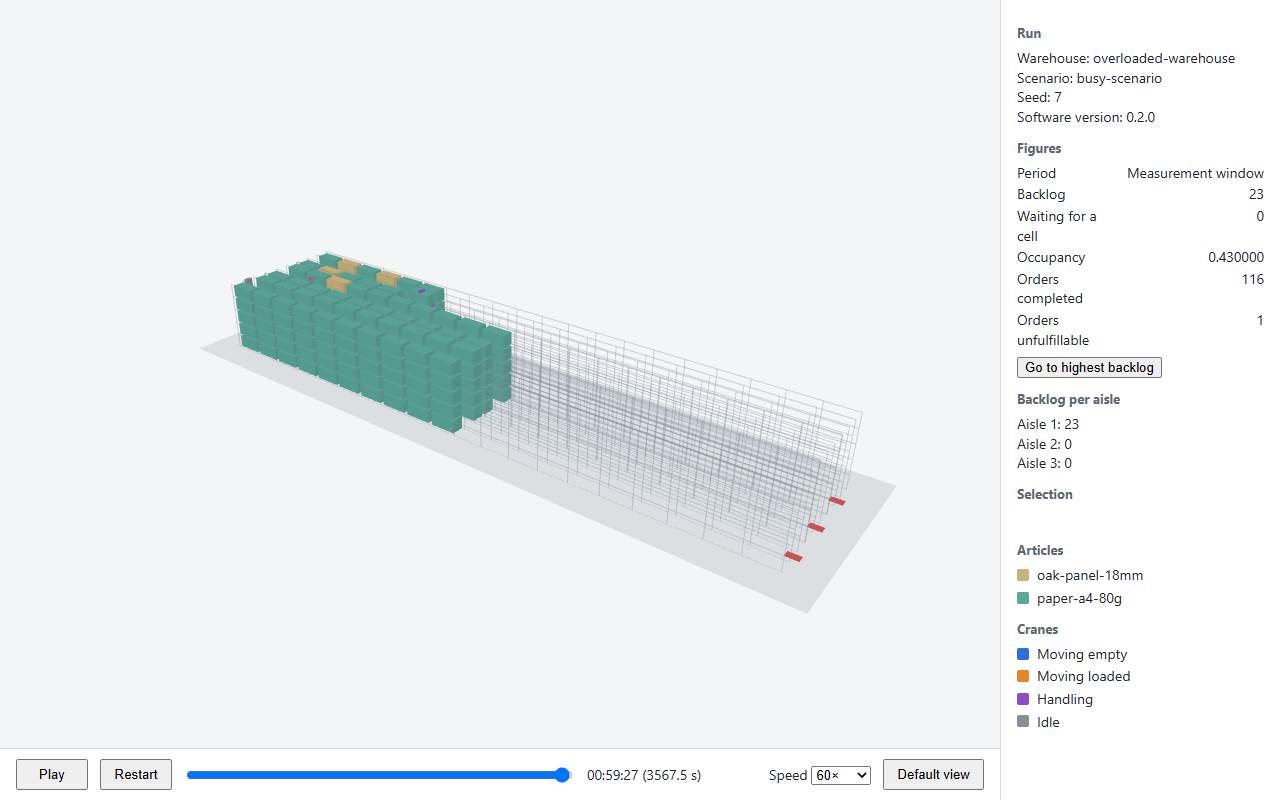
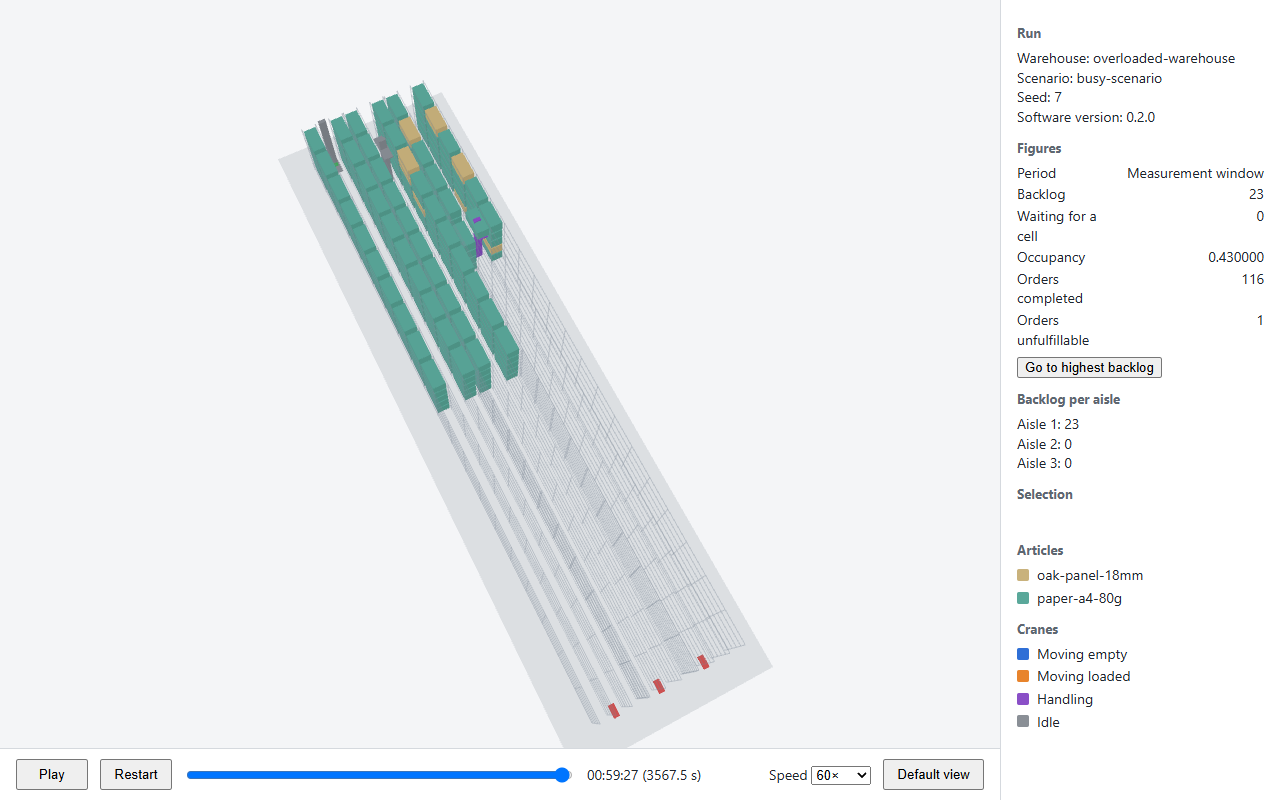
fix: keep cranes visible in the default view
Look steeply along the aisles, so that stored stock does not hide the
cranes. In the overloaded sample, the working crane's smallest visible
area grows from 40 to 147 pixels. Add a test for this, and re-record the
README media in the new view.

The click test now uses an upper cell, because from this view a load
unit above covers cell 1-1-1-1.

Claude-Session: https://claude.ai/code/session_01Ky4XPD1ykP1YnEo62DFhcY

Changed region(s): [[0.1562, 0.0938, 0.6875, 0.9062]]

diff --git a/src/highbay_sim/viewer/scene.js b/src/highbay_sim/viewer/scene.js
@@ -17,7 +17,8 @@ import { OrbitControls } from "./vendor/OrbitControls.js";
 
 const TRANSFER_ROLES = ["inbound", "outbound"];
 const ENDS = ["left", "right"];
-const VIEW_DIRECTION = new THREE.Vector3(0.55, 0.45, 0.7).normalize();
+// Steep and nearly along the aisles, so that stored stock does not hide the cranes.
+const VIEW_DIRECTION = new THREE.Vector3(0.3, 0.9, 0.15).normalize();
 const FIELD_OF_VIEW_DEGREES = 45;
 
 const locationKey = ([aisle, rack, bay, level]) => `${aisle}-${rack}-${bay}-${level}`;

diff --git a/tests/viewer/test_bottlenecks_ui.py b/tests/viewer/test_bottlenecks_ui.py
@@ -163,3 +163,44 @@ def test_unfulfillable_count_is_shown_at_its_time(
     assert figure(overloaded, "unfulfillable") == str(
         data["reported"]["order_outcomes"]["unfulfillable"]
     )
+
+
+def working_crane_pixels(page: Page) -> int:
+    """Count the drawn pixels in the hues of a working crane, which nothing else uses."""
+    return page.evaluate(
+        """() => {
+            const canvas = document.querySelector('#view canvas');
+            const copy = document.createElement('canvas');
+            copy.width = canvas.width;
+            copy.height = canvas.height;
+            window.highbayViewer.renderNow();
+            const context = copy.getContext('2d');
+            context.drawImage(canvas, 0, 0);
+            const { data } = context.getImageData(0, 0, copy.width, copy.height);
+            let count = 0;
+            for (let i = 0; i < data.length; i += 4) {
+                const [r, g, b] = [data[i], data[i + 1], data[i + 2]];
+                const max = Math.max(r, g, b);
+                const range = max - Math.min(r, g, b);
+                if (range === 0 || range / max <= 0.5 || max <= 76) continue;
+                let sector = (r - g) / range + 4;
+                if (max === r) sector = ((g - b) / range + 6) % 6;
+                else if (max === g) sector = (b - r) / range + 2;
+                const hue = sector * 60;
+                if ((hue >= 18 && hue <= 36) || (hue >= 205 && hue <= 285)) count += 1;
+            }
+            return count;
+        }"""
+    )
+
+
+def test_default_view_shows_a_working_crane_among_stored_stock(
+    page: Page, serve: Callable[[Path], str], overloaded_output: Path
+) -> None:
+    open_viewer(page, serve(overloaded_output / "replay.json"))
+    counts = []
+    for time_s in range(2490, 3567, 108):
+        move_to(page, time_s)
+        assert hook(page, "crane(1)")["activity"] != "idle"
+        counts.append(working_crane_pixels(page))
+    assert min(counts) >= 90, counts

diff --git a/tests/viewer/test_inspection_ui.py b/tests/viewer/test_inspection_ui.py
@@ -157,13 +157,13 @@ def test_moving_empty_to_a_transfer_point_names_it(
 
 
 def test_clicking_an_occupied_cell_selects_its_load_unit_and_shows_the_cell(v1: Page) -> None:
-    click_at(v1, hook(v1, "cellScreenPosition([1, 1, 1, 1])"))
+    click_at(v1, hook(v1, "cellScreenPosition([1, 1, 2, 2])"))
     selection = hook(v1, "selection")
     assert selection["kind"] == "load"
     text = details(v1)
     assert "B" in text
     assert "initial stock" in text
-    assert "1-1-1-1" in text
+    assert "1-1-2-2" in text
     assert "occupied" in text
 
 

diff --git a/specs/002-3d-run-replay/contracts/viewer.md b/specs/002-3d-run-replay/contracts/viewer.md
@@ -29,7 +29,7 @@ Logic modules do not use the document or three.js, so they can be tested directl
 | Restart | Goes to time 0 and pauses |
 | Time slider | Moves to the chosen time, covering the whole run |
 | Speed | 1×, 10×, 60×, 600×, or 3,600× |
-| Default view | Returns the camera to show the whole warehouse |
+| Default view | Returns the camera to show the whole warehouse, looking steeply along the aisles so that stored stock does not hide the cranes |
 | Go to highest backlog | Moves to `reported.first_backlog_peak_s` and pauses |
 | Drag, right-drag, and scroll in the view | Rotate, move, and zoom |
 | Click in the view | A crane selects the crane, and its details offer any carried load unit for selection. Otherwise the first load unit along the ray is selected, through empty cells, with its cell's details also shown. With no load unit along the ray, the nearest cell is selected. Anywhere else clears the selection. |

diff --git a/README.md b/README.md
@@ -38,7 +38,7 @@ All values in `samples/` are illustrative and are not real equipment data. Repla
 
 ![Cranes working through a growing backlog in aisle 1, replayed at 60x speed](docs/media/replay.gif)
 
-The recording shows `samples/replay/overloaded-warehouse.yaml` from a camera turned to look into the aisles. All numbers in this sample are placeholders. See also the [default view](docs/media/default-view.png) and the [highest backlog with a crane selected](docs/media/peak-backlog.png).
+The recording shows `samples/replay/overloaded-warehouse.yaml` in the default view. All numbers in this sample are placeholders. See also the [default view](docs/media/default-view.png) and the [highest backlog with a crane selected](docs/media/peak-backlog.png).
 
 Add `--replay` to write `replay.json` next to the results, then open it:
 
